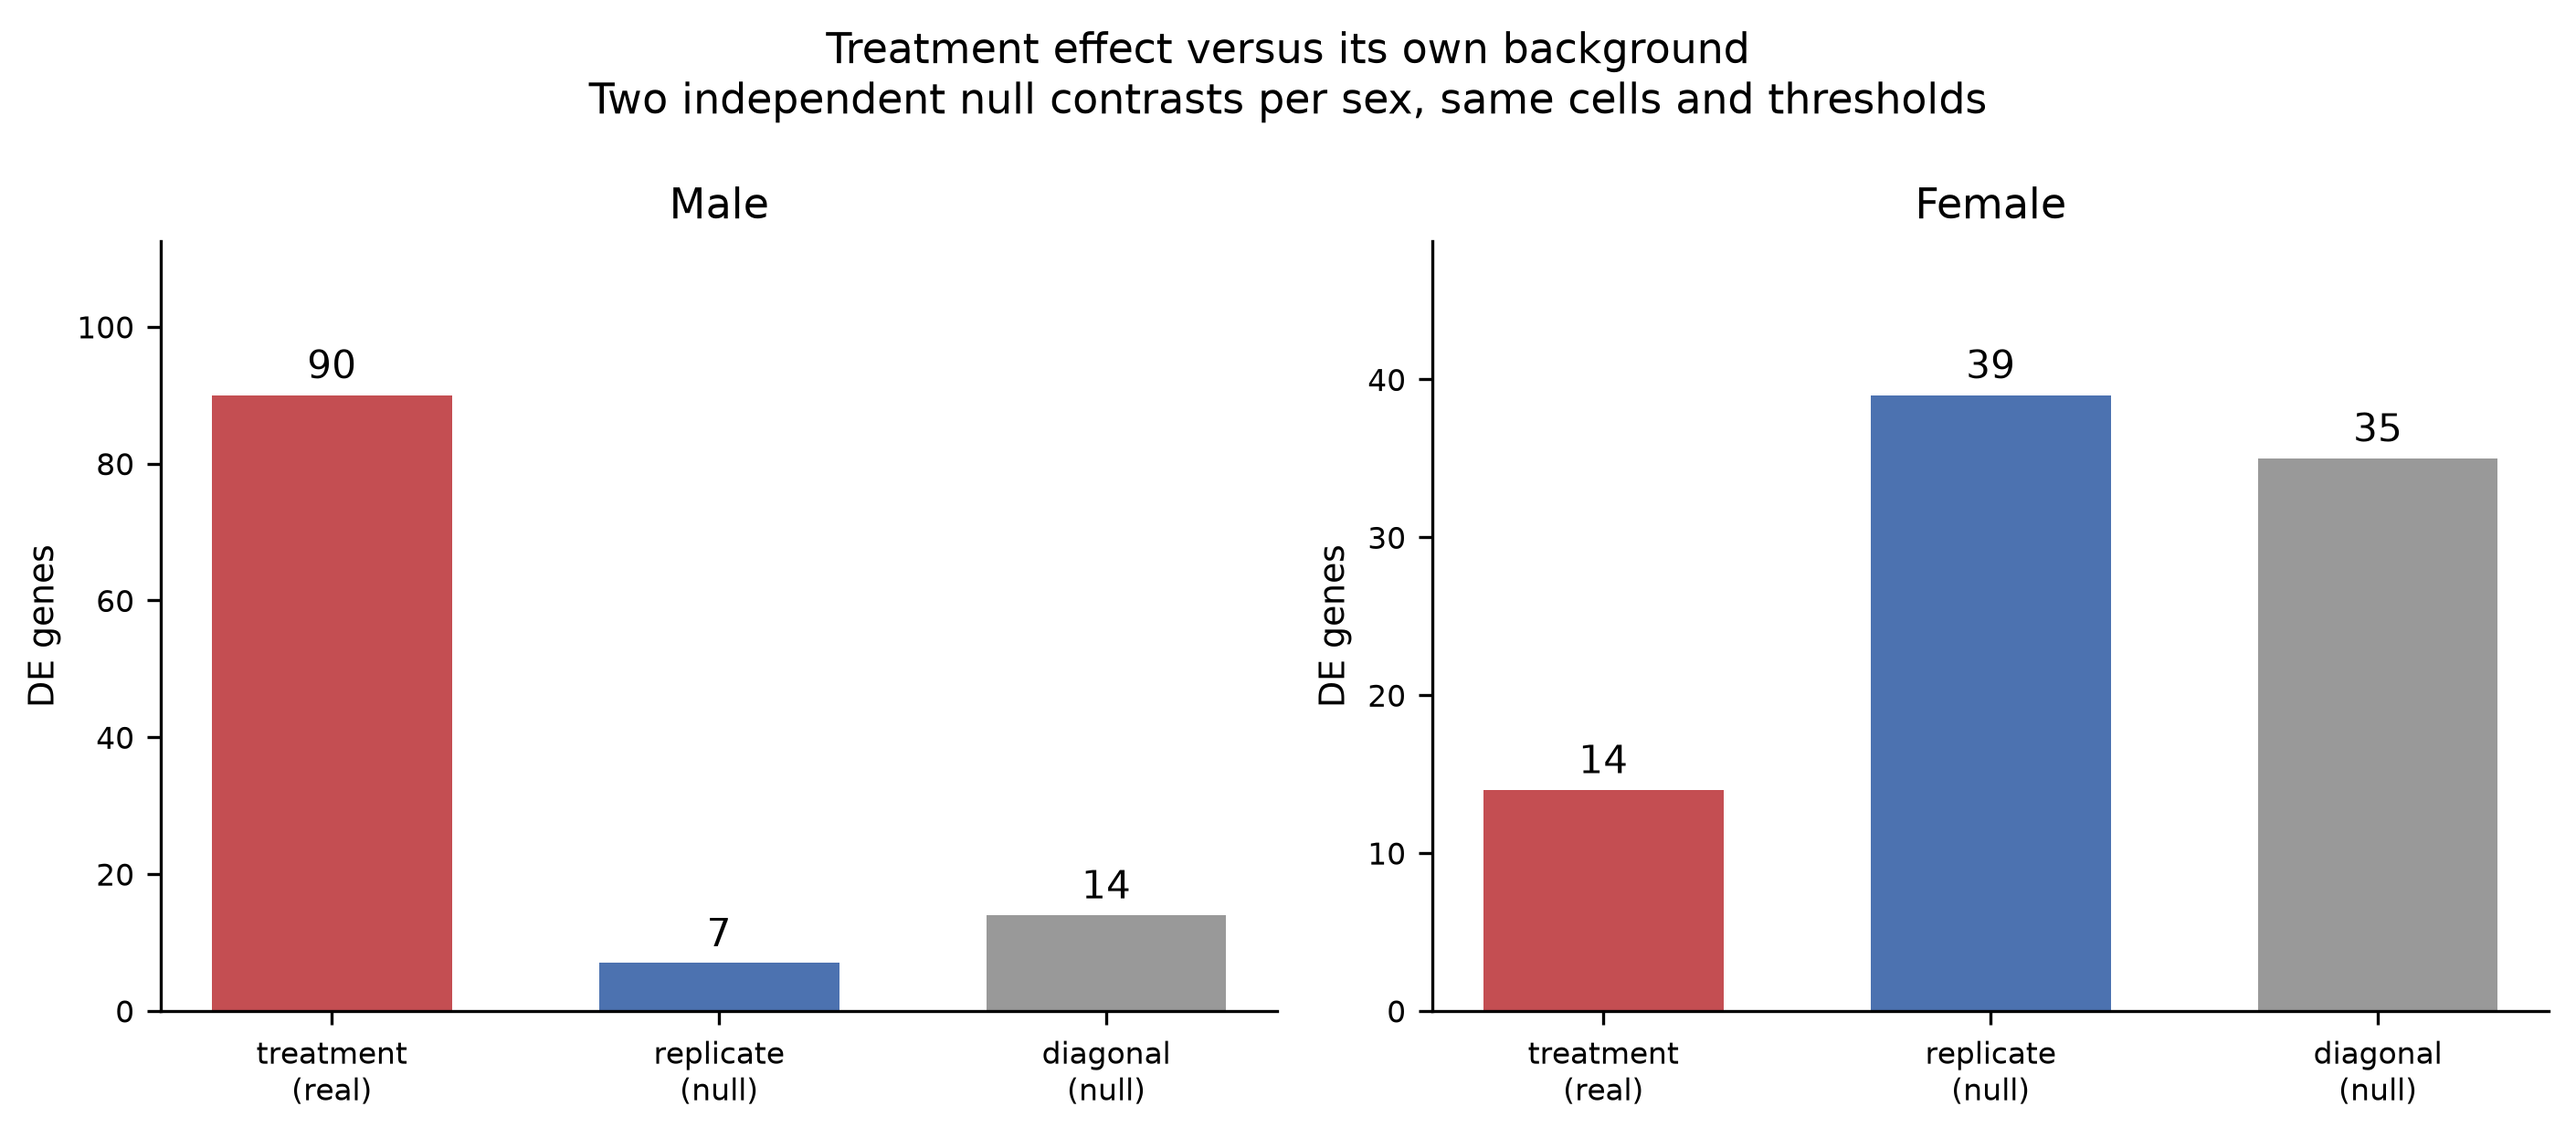
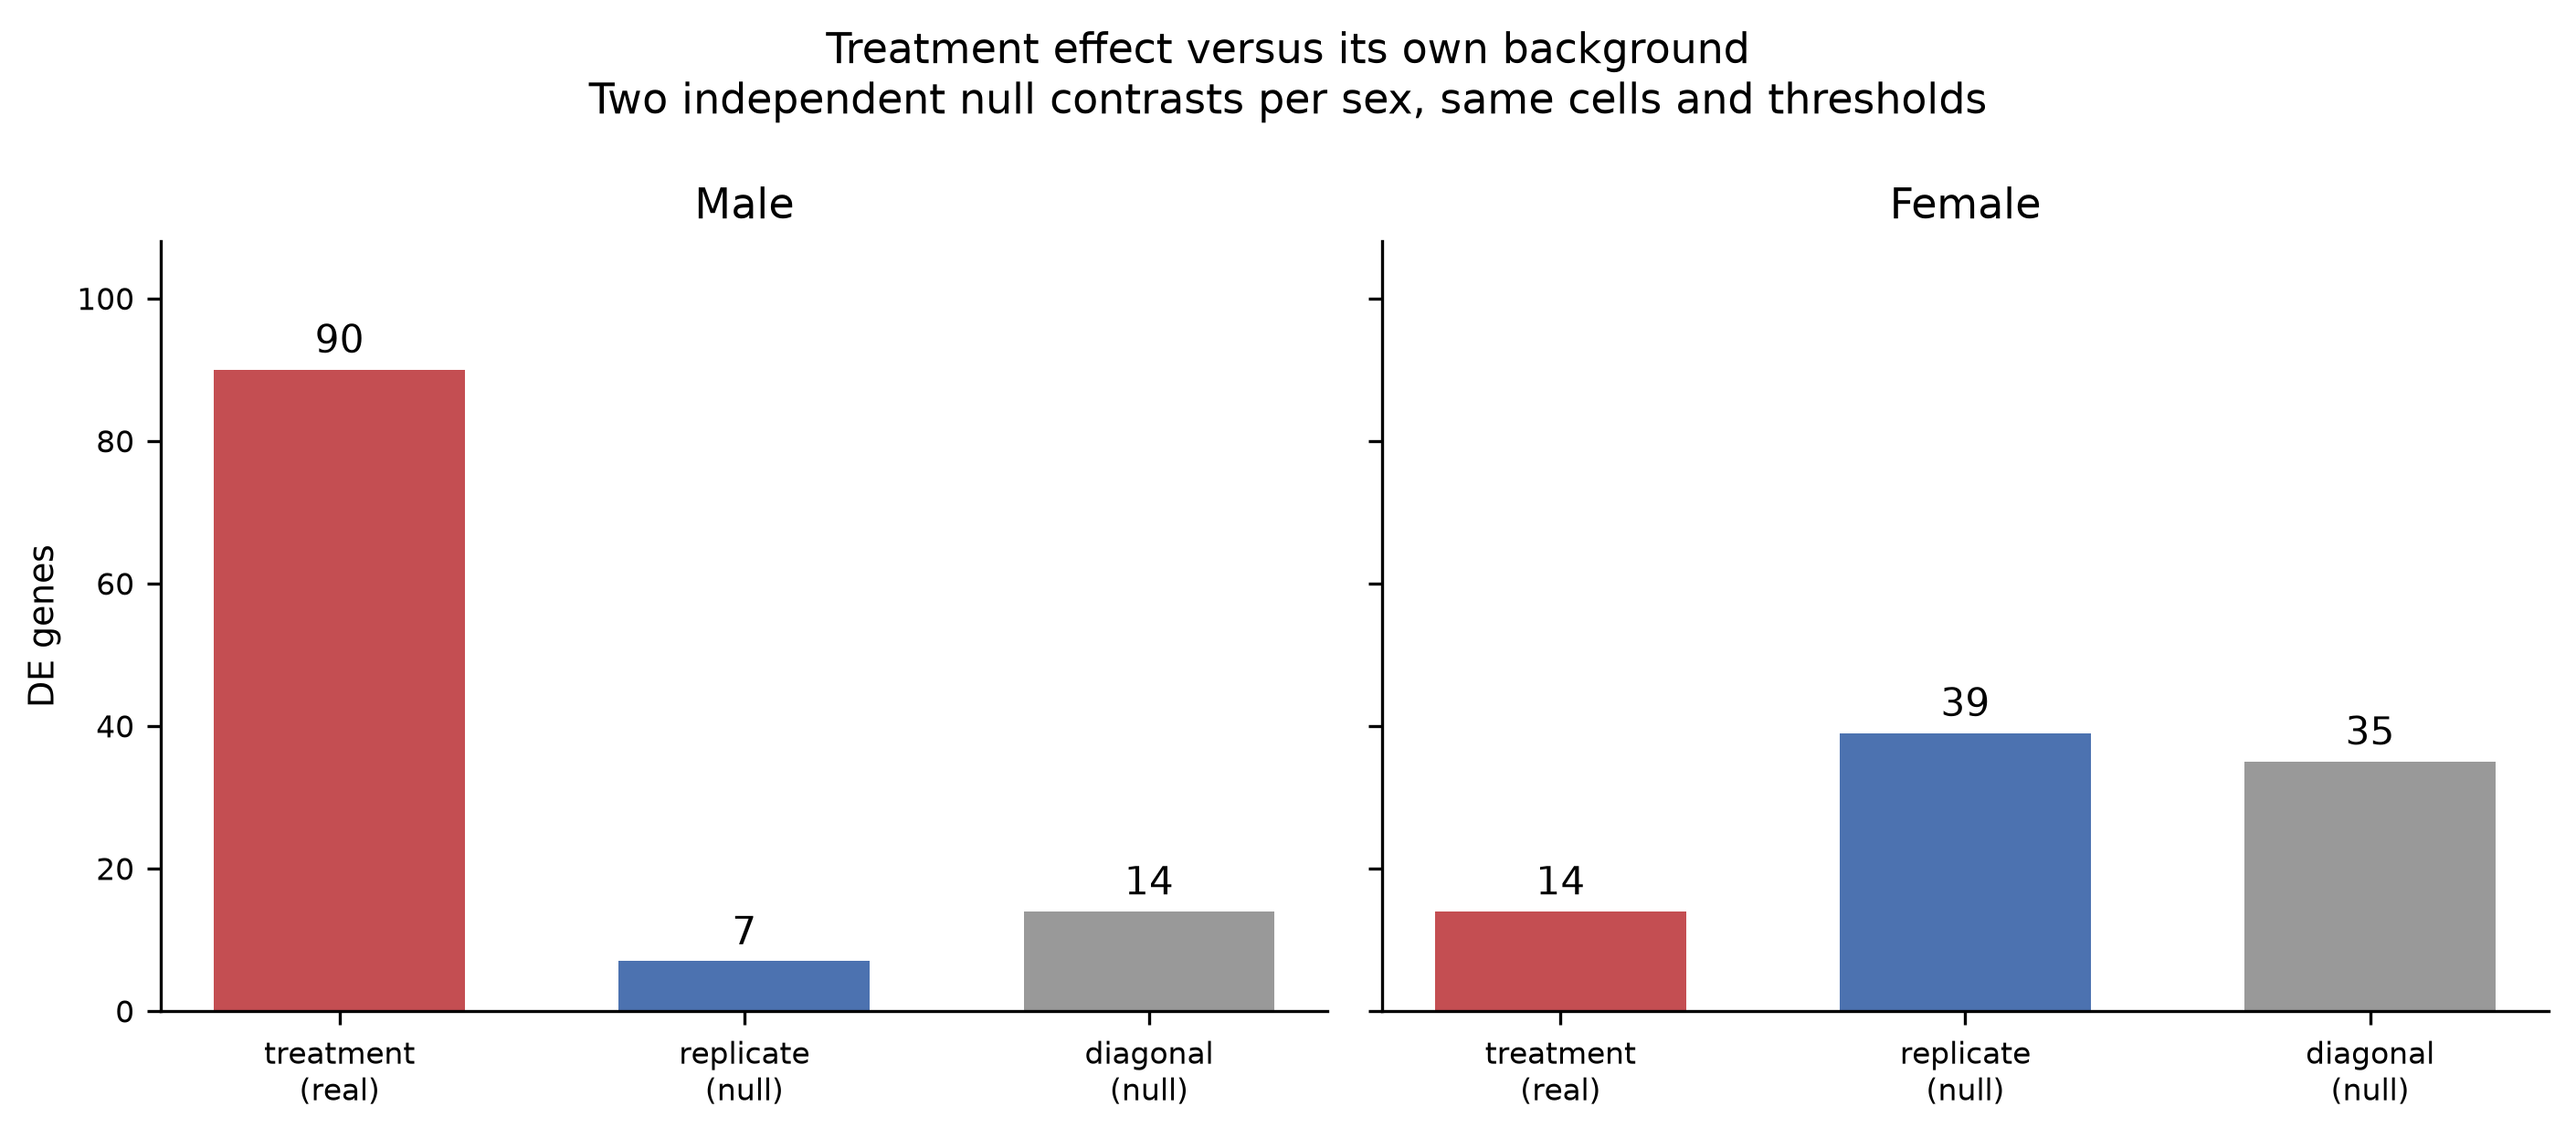
Fix overlap reporting; shared y-axis on permutation figure

diff --git a/scripts/10_permutation_control.py b/scripts/10_permutation_control.py
@@ -130,7 +130,7 @@ def main():
     print("=" * 66)
     for sex in ["Male", "Female"]:
         d = df[df.sex == sex]
-        real = d[d.kind.str.startswith("REAL")].n_DE.iloc[0]
+        real = d[d.kind == "real"].n_DE.iloc[0]
         nulls = d[d.kind == "null"].n_DE.values
         print(f"\n{sex}:")
         print(f"  real treatment split : {real}")
@@ -152,7 +152,7 @@ def main():
     fig, axes = plt.subplots(1, 2, figsize=(9, 4), sharey=False)
     for ax, sex in zip(axes, ["Male", "Female"]):
         d = df[df.sex == sex]
-        real = d[d.kind.str.startswith("REAL")].n_DE.iloc[0]
+        real = d[d.kind == "real"].n_DE.iloc[0]
         nulls = d[d.kind == "null"].n_DE.values
         ax.scatter(np.full(len(nulls), 0.6) + np.linspace(-.08, .08, len(nulls)),
                    nulls, s=45, c="grey", zorder=3, label="null splits")
